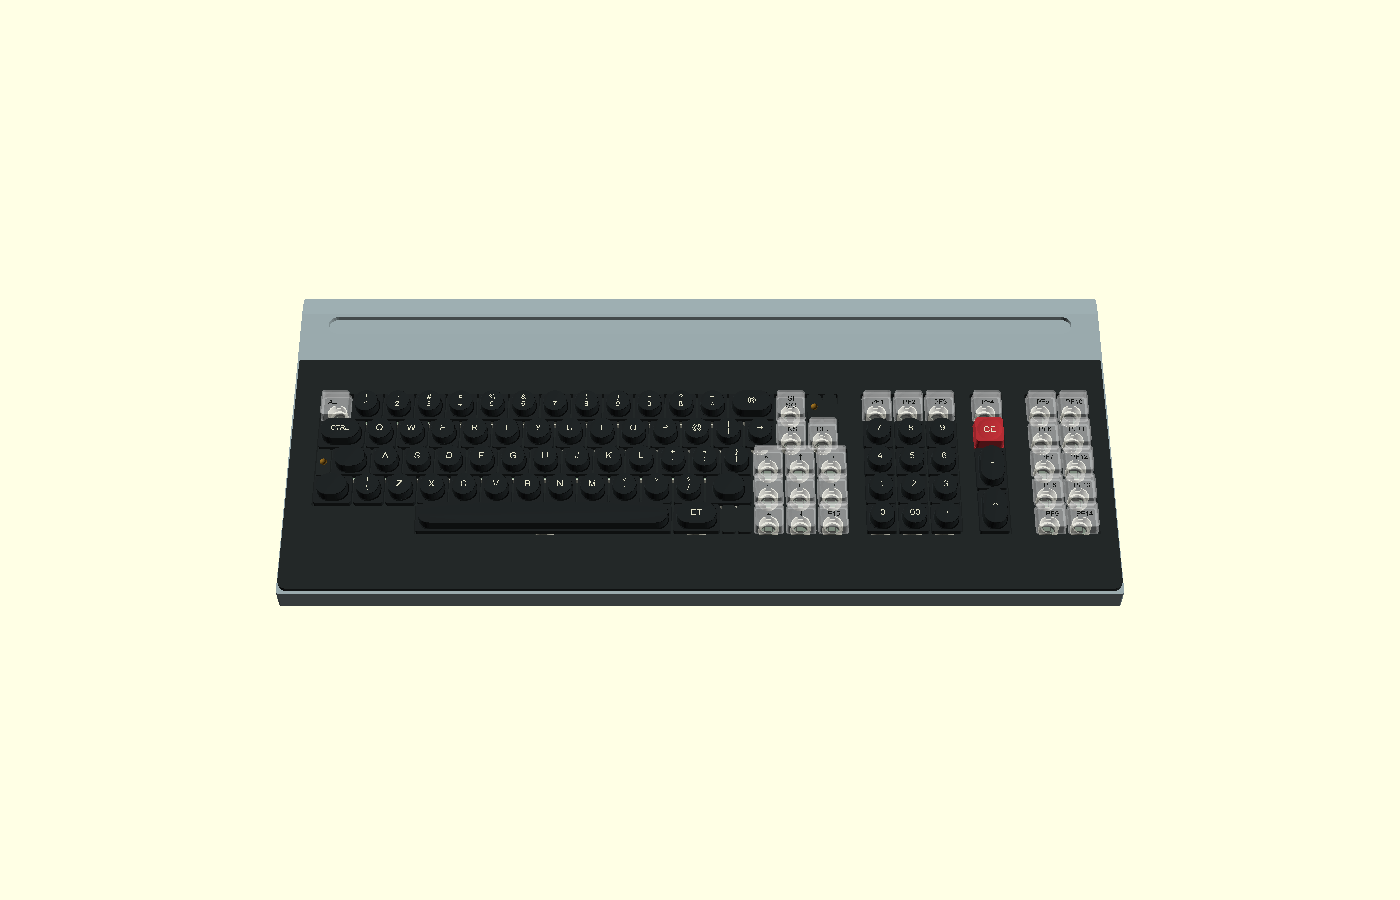
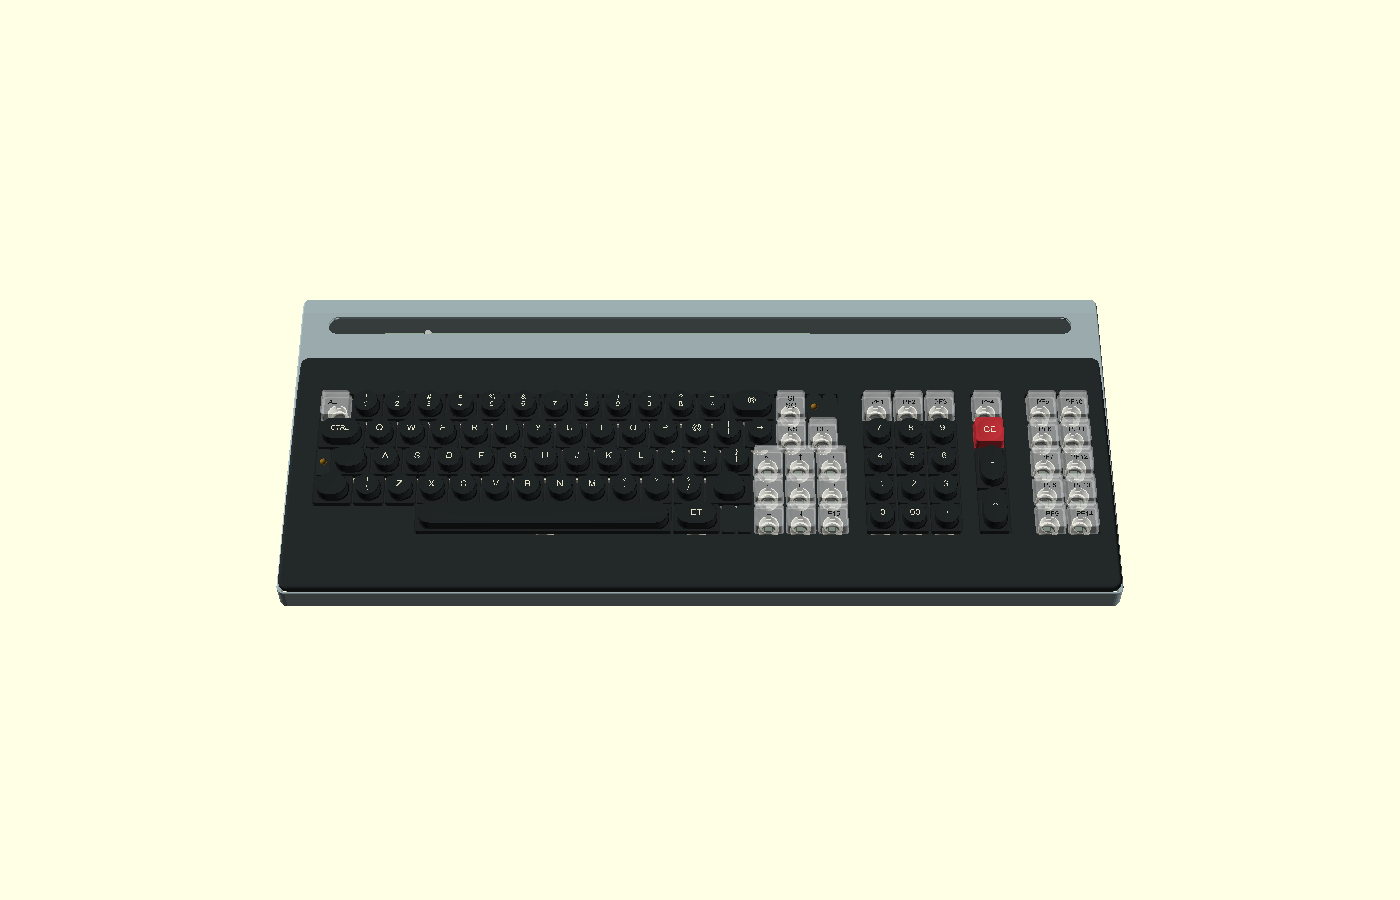
Model thin keyboard shell bends and rounded black deck perimeter

Changed region(s): [[0.215, 0.3422, 0.7679, 0.3733]]

diff --git a/models/robotron-1715m/keyboard/README.md b/models/robotron-1715m/keyboard/README.md
@@ -53,7 +53,7 @@ Preview transparency is not a simulation of glass, metal reflection or rubber.
 The assembled keyboard is a visual reference, not one printable part. Existing
 photo-derived dimensions and hidden construction remain provisional.
 
-The deck aperture is clipped behind the 3 mm front wall. Without this limit,
+The deck aperture is clipped behind the 1 mm front wall. Without this limit,
 its tilted cutter removed the front fascia and exposed the PCB edge. The low
 front preview checks that the shell closes beneath the deck.
 
@@ -74,5 +74,14 @@ The light shell now ends at a straight, open lower rim above the separate bottom
 lid, with six individual screw tabs. Inside photos `PXL_20261012_123048886.jpg`
 and `PXL_20261012_123907435.jpg` establish this construction. The previous
 spherical rounding rolled the shell underneath and is removed. Plan corner
-radius is approximately 1 mm per owner feedback; sheet thickness, tab dimensions
-and the 0.2 mm lid seam remain modeling estimates.
+bend radius is approximately 5 mm, while the top-to-wall bend is approximately
+1 mm per owner feedback; tab dimensions and the 0.2 mm lid seam remain modeling estimates.
+The light shell walls, sloped skin, rear ledge and lid tabs use the owner’s
+approximately 1 mm sheet thickness. The separate bottom lid retains its own
+thickness parameter.
+
+The black deck has a rolled top perimeter rather than a sharp extruded edge:
+approximately 6 mm plan corners and a 2 mm top-edge radius, visually fitted to
+owner photos `PXL_20261012_123006039.jpg` and `PXL_20261009_132919894.jpg`.
+These black-deck radii are estimates, separate from the light sheet-metal shell’s
+5 mm corner bends and approximately 1 mm top bend / sheet thickness.
